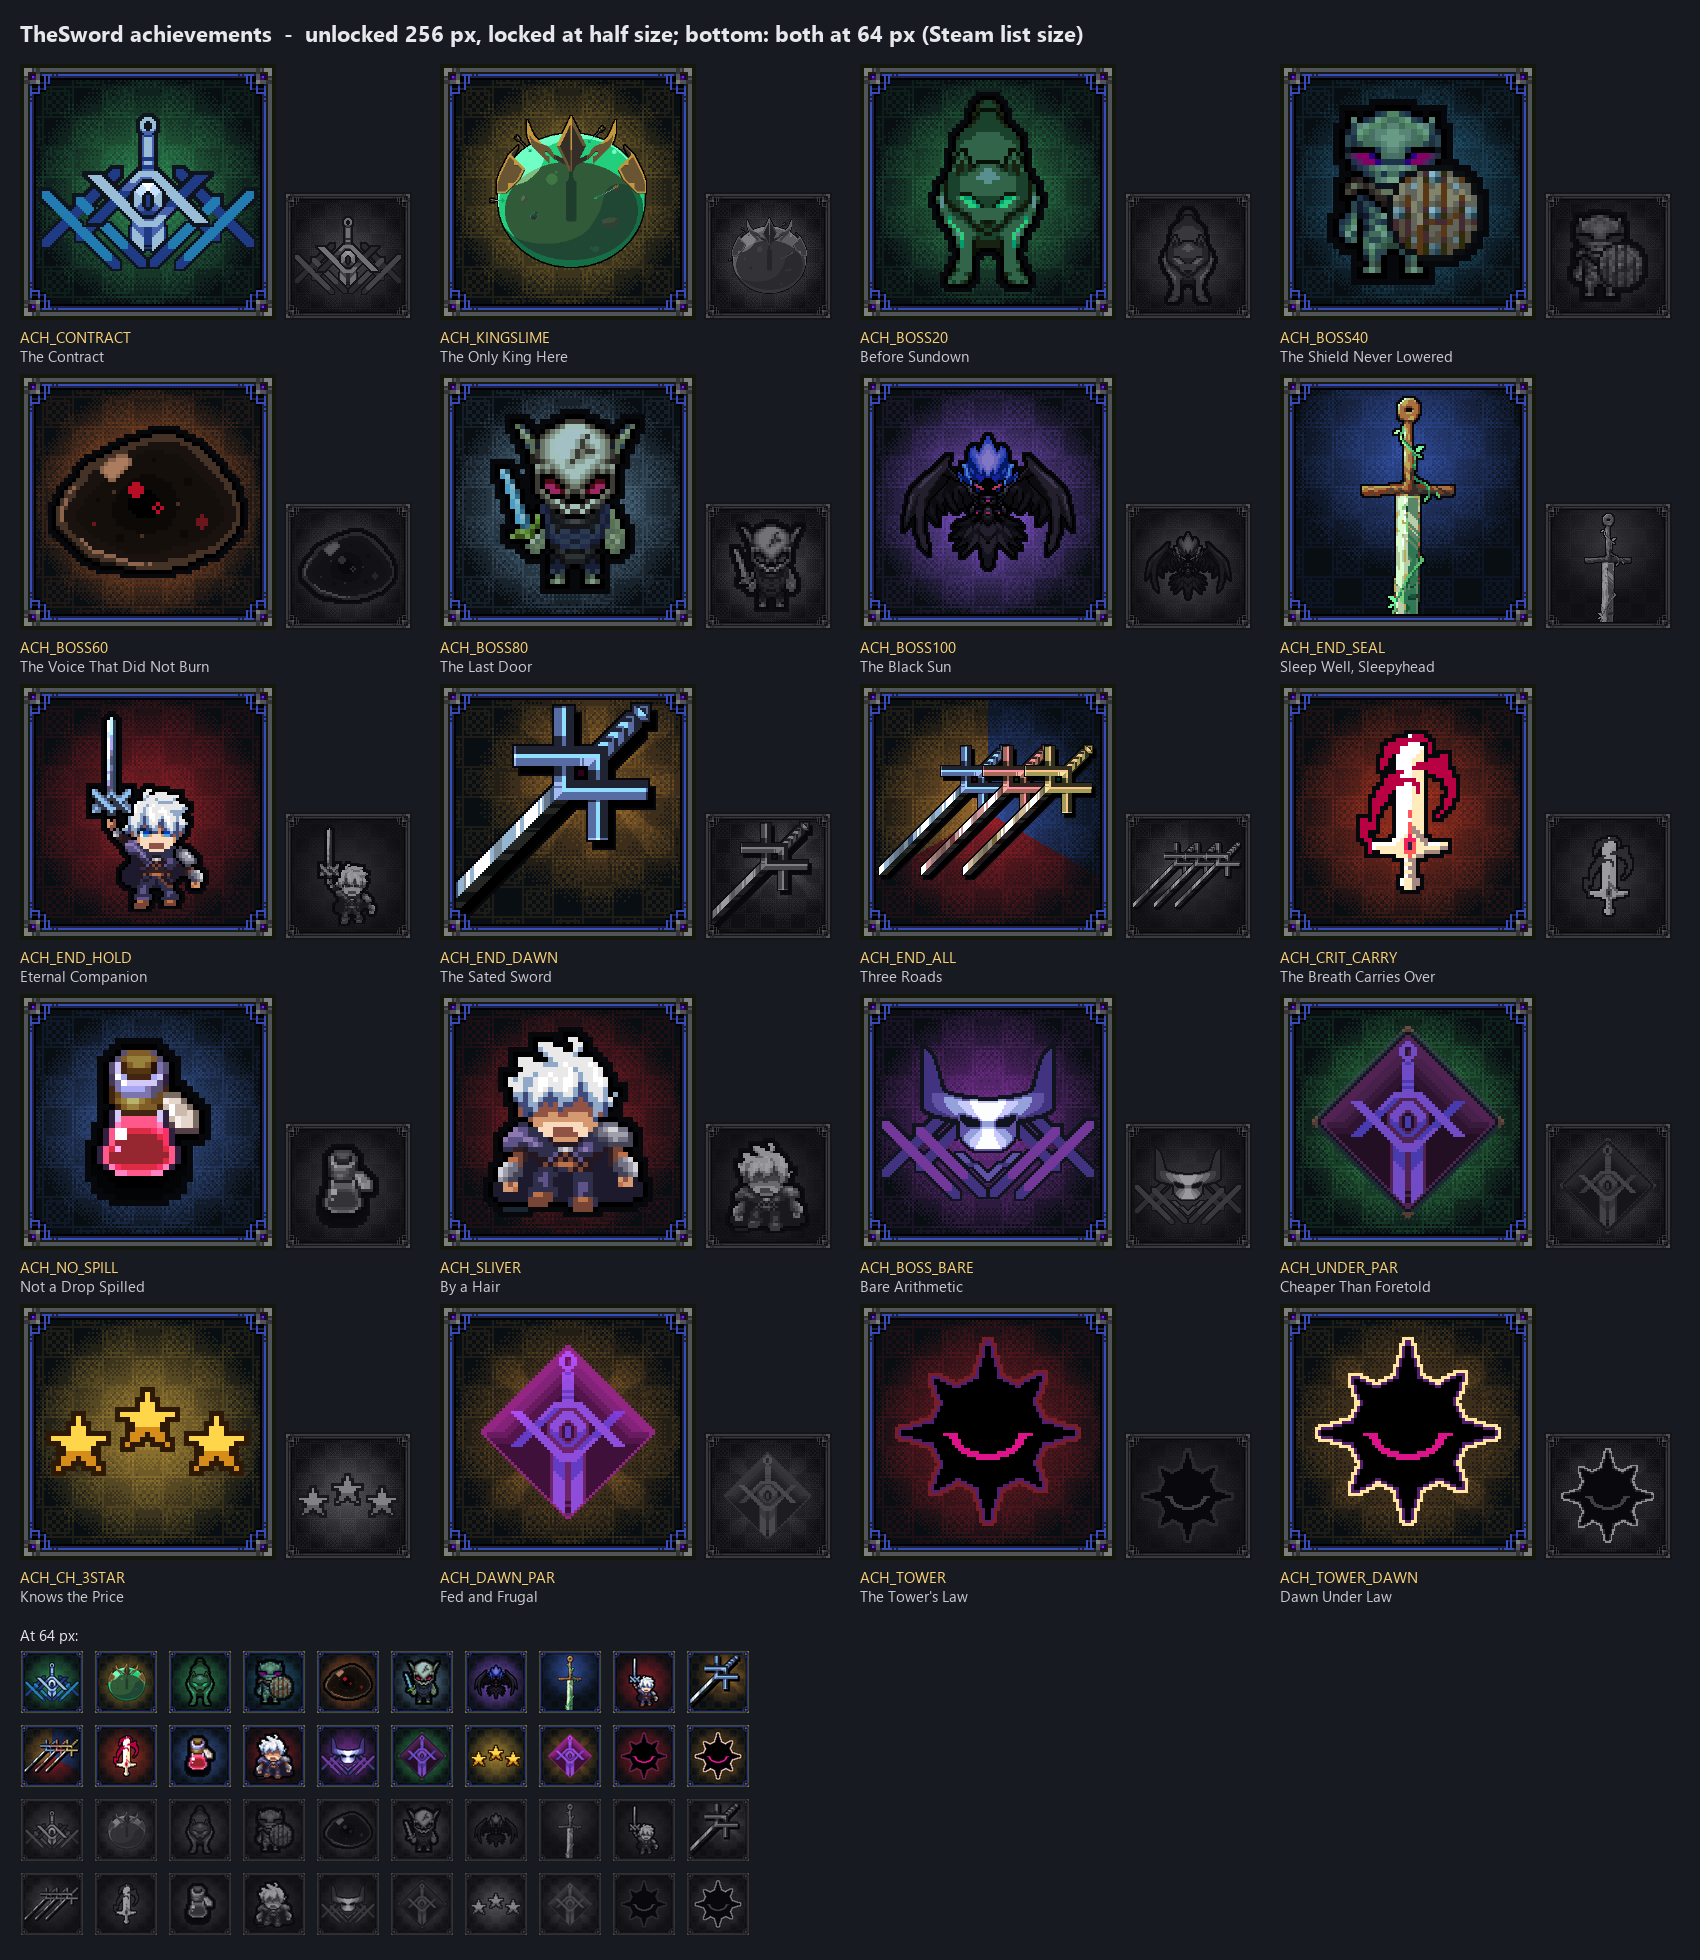
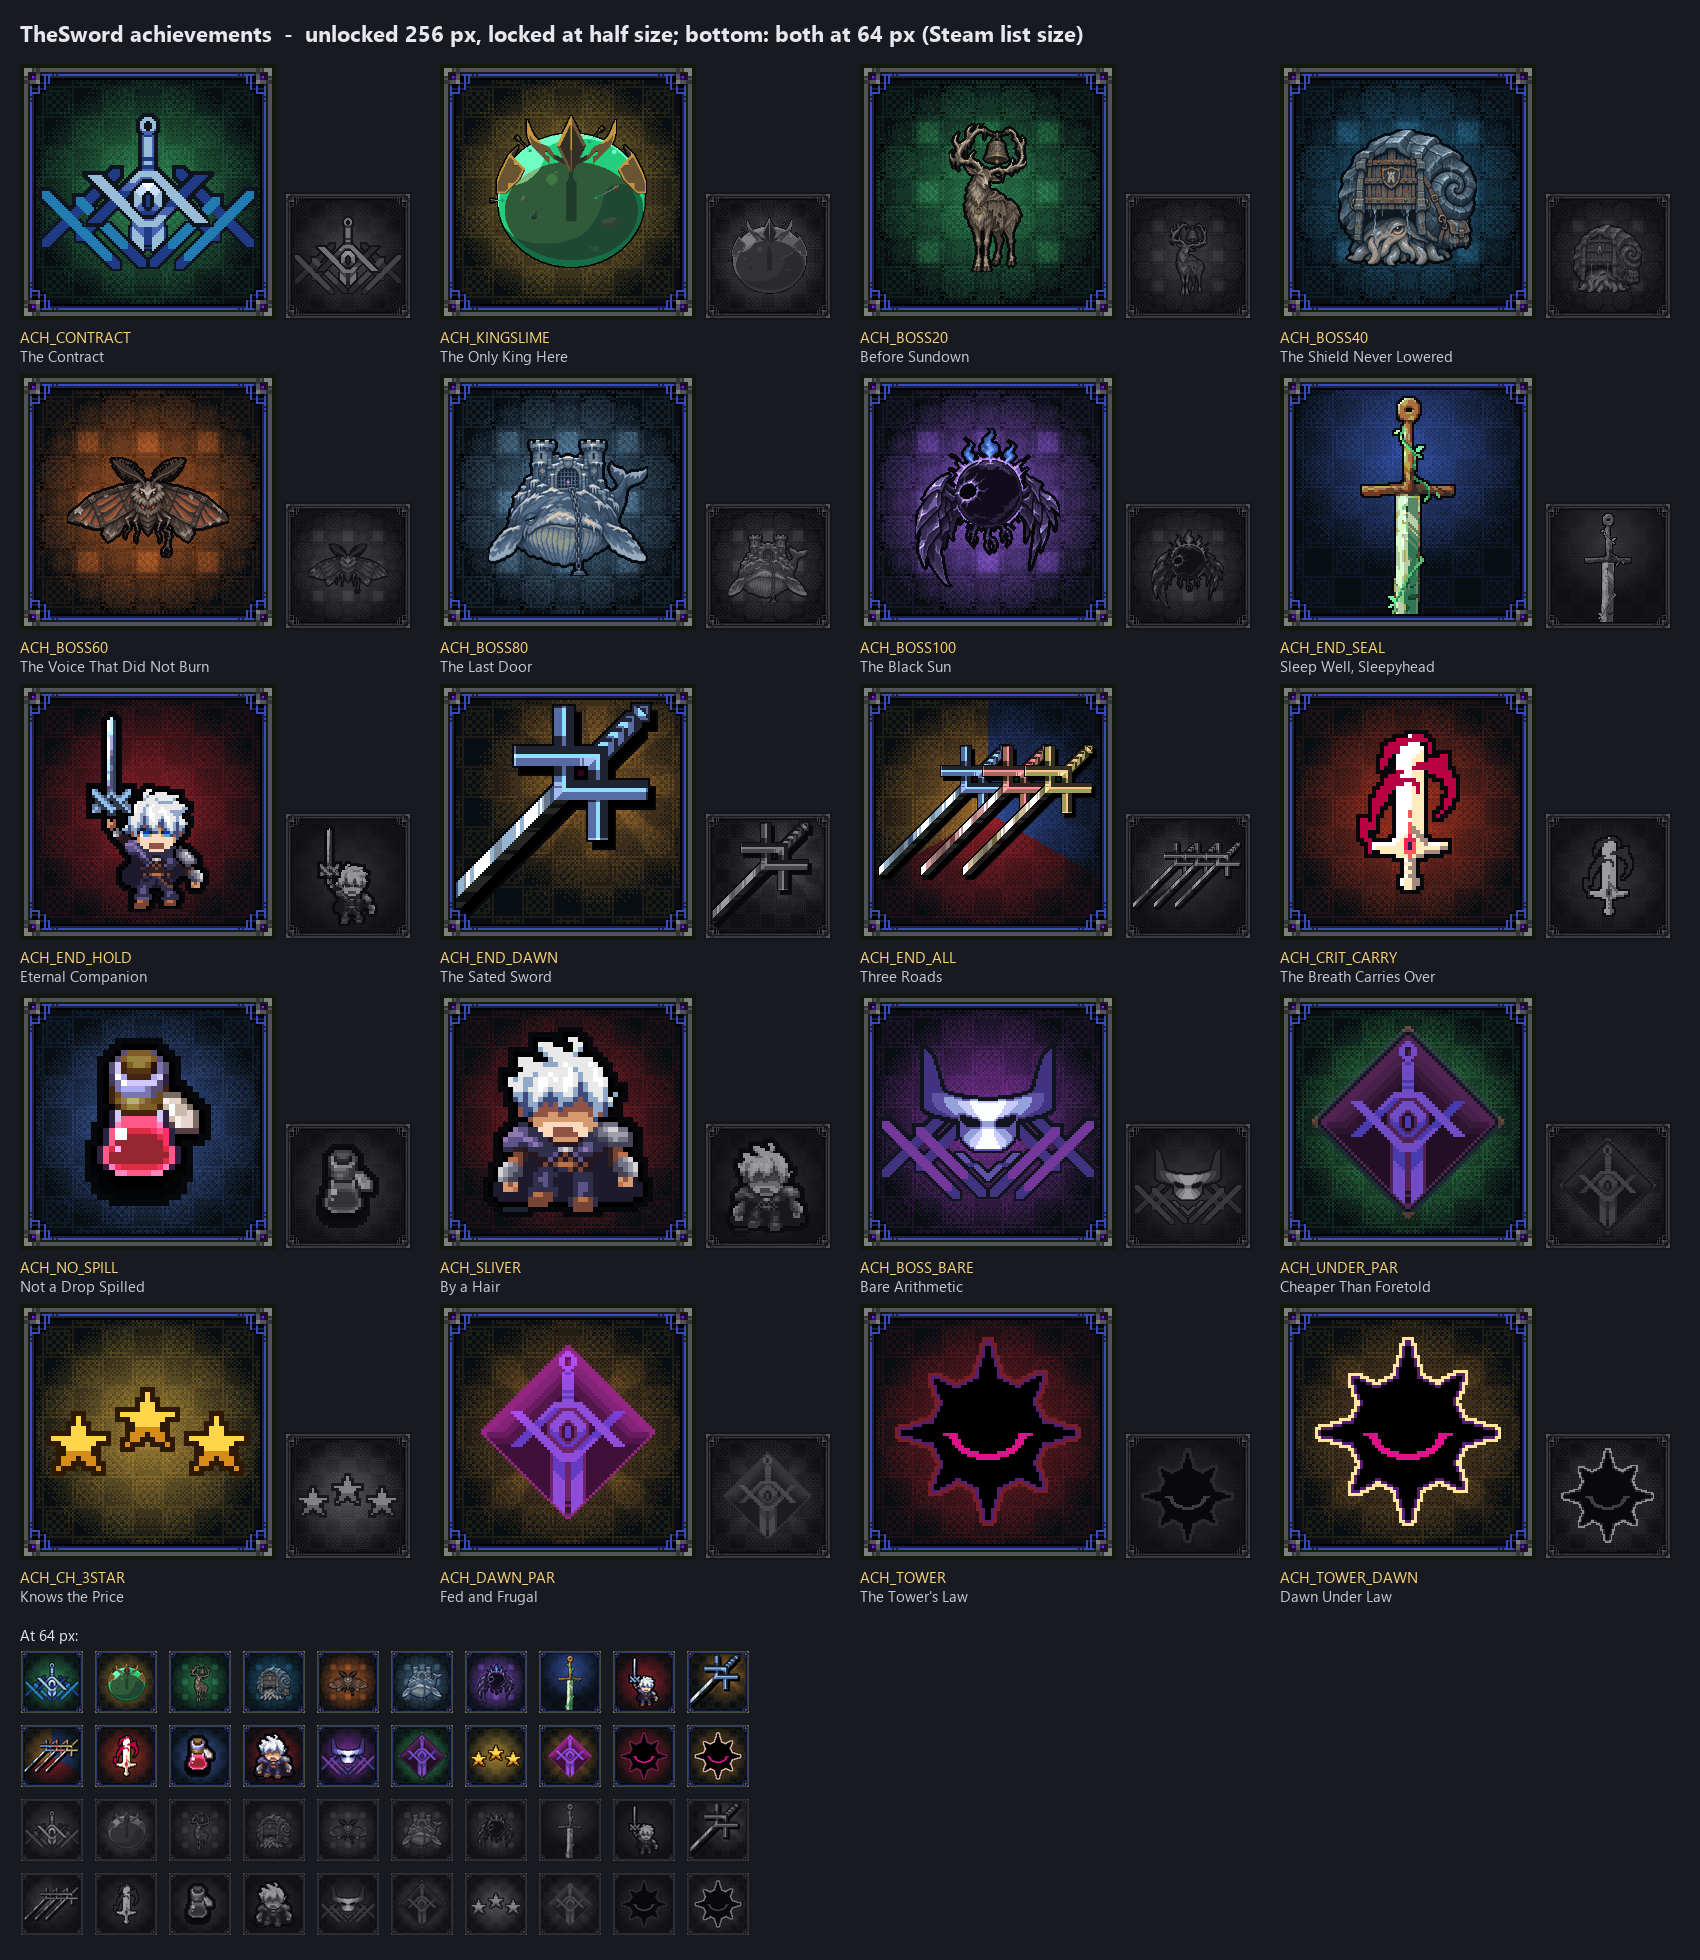
[ADD] 업적 아이콘 ACH_BOSS20~100 을 새 챕터 보스 그림으로(옛 틀·무늬·빛을 되살려 1배로 얹음, 잠긴 판·한눈에 보기 포함, 그림 README 의 AI 문장 사실대로), 맵 위 보스의 대기 동작(한 점 위 판과 0.6초마다 번갈아 — BossArt.Breathe, 트랜스폼 안 움직임), 일일 업데이트 11-20
Claude-Session: https://claude.ai/code/session_019jzxXKnfbABBeq4n8MpqwG

diff --git a/Assets/@Scripts/Utils/BossArt.cs b/Assets/@Scripts/Utils/BossArt.cs
@@ -27,7 +27,35 @@ public static class BossArt
         if (anim != null)
             anim.enabled = false;
         sr.sprite = s;
+        Breathe(id, sr, s);
         return true;
+    }
+
+    const float BreathSeconds = 0.6f;
+    static System.Collections.Generic.Dictionary<int, Sprite> s_raised;
+
+    [RuntimeInitializeOnLoadMethod(RuntimeInitializeLoadType.SubsystemRegistration)]
+    static void ResetStatics() => s_raised = null;
+
+    /// <summary>맵의 대기 동작 — 같은 그림을 한 점 위에 그린 판과 번갈아 건다(몹 시트의 들썩임 자리).
+    /// 트랜스폼을 옮기지 않아 콜라이더·SitOnFloor·예측 숫자 자리가 그대로고, 한 점씩이라 도트가 번지지 않는다.
+    /// 아래끝은 바닥 그대로(올라갔다 돌아온다).</summary>
+    static void Breathe(int id, SpriteRenderer sr, Sprite s)
+    {
+        s_raised ??= new System.Collections.Generic.Dictionary<int, Sprite>();
+        if (s_raised.TryGetValue(id, out Sprite up) == false || up == null)
+        {
+            Rect r = s.rect;
+            Vector2 pivot = new Vector2(s.pivot.x / r.width, (s.pivot.y - 1f) / r.height);   // 피벗을 한 점 내리면 그림이 한 점 뜬다
+            up = Sprite.Create(s.texture, r, pivot, s.pixelsPerUnit, 0, SpriteMeshType.FullRect);
+            up.name = s.name + "_up";
+            s_raised[id] = up;
+        }
+        DOTween.Kill(sr);
+        DOTween.Sequence()
+            .AppendInterval(BreathSeconds).AppendCallback(() => { if (sr != null && sr.sprite == s) sr.sprite = up; })
+            .AppendInterval(BreathSeconds).AppendCallback(() => { if (sr != null && sr.sprite == up) sr.sprite = s; })
+            .SetLoops(-1).SetId(sr).SetLink(sr.gameObject);
     }
 
     /// <summary>UI 판. 이미지의 애니메이터를 끄고 그림을 건다.</summary>

diff --git a/Steam/art/README.md b/Steam/art/README.md
@@ -1,7 +1,7 @@
 # Steam 그림 — 게임 그림으로 합성한 임시본
 
 Steam 스토어·라이브러리·업적에 올릴 그림 전부. **프로젝트에 이미 있는, 사람이 그린 그림만** 잘라 붙였다 —
-도트 스프라이트, 타이틀 도트, 인트로·로딩 삽화, 로고. 이미지 생성 모델은 한 번도 쓰지 않았다.
+도트 스프라이트, 타이틀 도트, 인트로·로딩 삽화, 로고. 이미지 생성 모델은 쓰지 않았다 — 예외는 보스 업적 다섯의 주제로, 게임에 들어간 챕터 보스 그림(오너의 AI 생성 시안)을 그대로 얹었다(아래 ¹).
 새로 그린 것은 그라데이션·둥근 사각형·디더링한 빛 같은 도형뿐이다.
 
 - **도트는 정수 배율 NEAREST 로만 키웠다.** 삽화와 로고는 **줄이기만** 했다(LANCZOS·BOX). 흐린 확대는 없다.
@@ -60,11 +60,11 @@ Steam 스토어·라이브러리·업적에 올릴 그림 전부. **프로젝트
 |---|---|---|---|---|
 | `ACH_CONTRACT` | 계약 팝업의 외눈 검 문장 | `UI/UI_Popup/PopupUI_MagicalSwordCheck.png` 위쪽 문장(팝업 판은 색으로 걷어냄) | ×2 | 숲 초록 |
 | `ACH_KINGSLIME` | 킹 슬라임 | `MonsterSprites/BossMonsterSprite/Idle/Boss_C0_I000.png` 첫 칸 | 2/3 축소(BOX) | 금색 |
-| `ACH_BOSS20` | 묘소의 늑대 | `MonsterSprites/Idle/Mob_004_Idle.png` (= `Mob_C0_I004`) + 챕터 0 색 | ×4 | 숲 초록 |
-| `ACH_BOSS40` | 수로의 방패병 | `MonsterSprites/Idle/Mob_007_Idle.png` (`Mob_C0_I007`) + 챕터 1 색 | ×6 | 물빛 |
-| `ACH_BOSS60` | 재의 파수꾼 | `MonsterSprites/Idle/Boss_C1_I000.png` (`Mob_C0_I008`) + 챕터 2 색 | ×4 | 잿불 |
-| `ACH_BOSS80` | 얼어붙은 기사 | `MonsterSprites/Idle/Mob_006_Idle.png` (`Mob_C0_I006`) + 챕터 3 색 | ×5 | 서리 |
-| `ACH_BOSS100` | 검은 태양 | `LegacySprites/Monster_Idle.png` (`Mob_C0_I009`) + 챕터 4 색 | ×2 | 보랏빛 |
+| `ACH_BOSS20` | 종뿔사슴 | `Boss/BossCh0.png` ¹ | ×1 | 숲 초록 |
+| `ACH_BOSS40` | 수문을 진 소라 | `Boss/BossCh1.png` ¹ | ×1 | 물빛 |
+| `ACH_BOSS60` | 잿불풀무나방 | `Boss/BossCh2.png` ¹ | ×1 | 잿불 |
+| `ACH_BOSS80` | 빙성고래 | `Boss/BossCh3.png` ¹ | ×1 | 서리 |
+| `ACH_BOSS100` | 검은 태양(왕관 일식체) | `Boss/BossCh4.png` ¹ | ×1 | 보랏빛 |
 | `ACH_END_SEAL` | 잠든 검이 꽂혀 있다 — 날이 틀 아래로 들어간다 | `TitleImages/MainTitle_Sword.png` | ×2 | 밤 파랑 |
 | `ACH_END_HOLD` | 검을 높이 든 주인공 | `Player/UnitHero_ContractSword_F.png` 첫 칸 | ×3 | 핏빛 |
 | `ACH_END_DAWN` | 에고소드 — 손잡이와 외눈은 안에, 날은 틀 밖으로 | `EquipIllust/Illust_Sword_01.png` | ×2 | 새벽 + 빛살 |
@@ -79,13 +79,17 @@ Steam 스토어·라이브러리·업적에 올릴 그림 전부. **프로젝트
 | `ACH_TOWER` | 보스 문의 검은 해 | `BossPortal/BossPortal_Idle.png` 첫 칸 | ×3 | 핏빛 |
 | `ACH_TOWER_DAWN` | 같은 검은 해, 금빛 테 | 〃 | ×3 | 새벽 + 빛살 |
 
+- ¹ **보스 다섯은 2026-11-20 에 게임의 챕터 보스 그림(오너가 AI 이미지 생성으로 뽑은 시안, 172칸)으로 바꿨다.** 예전 판(몹 시트 + 챕터 색)의 틀·무늬·빛은 그대로 두고 —
+  옛 주제의 외곽선 안을 지운 뒤, 무늬는 30칸 주기로 옮겨 오고 빛(정수 단계, 반경에 비례)은 옛 판에서 잰 기울기로 다시 디더했다 — 새 그림을 1배로 얹고 2 px 외곽선(6,8,12)을 둘렀다.
+  게임에서도 보스 그림은 몹 도트의 절반 크기라 1배가 같은 밀도다. 챕터 색은 입히지 않았다(그림이 이미 챕터 색). 잠긴 판은 옛 쌍에서 맞춘 식(밝기 ×0.58 + 7.6, 파랑 +5).
+  `achievements_contact.png` 도 그 자리만 같은 축소 필터로 갈아 끼웠다.
 - ★ 는 글꼴 Silver(Poppy Works, CC BY 4.0)의 글리프다 — `../THIRD_PARTY_NOTICES.txt` 1.1 에 이미 표기돼 있다.
 - 숨김 업적 셋(`ACH_END_DAWN`·`ACH_DAWN_PAR`·`ACH_TOWER_DAWN`)도 두 장씩 있다. 풀리기 전에는 Steam 이 자기 "숨김" 표시를 보인다.
-- 64 px 에서 가장 약한 것: `ACH_BOSS60`·`ACH_BOSS100`(거의 검은 그림이라 실루엣과 빛 테두리로 읽힌다), `ACH_END_ALL`(×1 도트라 가늘다).
+- 64 px 에서 가장 약한 것: `ACH_BOSS20`(사슴 다리가 가늘다)·`ACH_BOSS100`(검은 구가 빛 테두리로 읽힌다), `ACH_END_ALL`(×1 도트라 가늘다).
 
 ## AI 공개와의 관계
 
-그림 속 모든 픽셀은 사람이 그린 프로젝트 그림(과 도형)이지만, **무엇을 어디서 잘라 어떻게 놓을지는 Claude(AI)가 스크립트로 정했다.**
+그림 속 픽셀은 사람이 그린 프로젝트 그림(과 도형)이다 — **보스 업적 다섯(`ACH_BOSS20~100`)의 주제만 예외로 AI 이미지 생성 그림이다**(Steam 공개 문단의 보스 줄이 덮는다). 그리고 **무엇을 어디서 잘라 어떻게 놓을지는 Claude(AI)가 스크립트로 정했다.**
 Content Survey 의 AI 공개 칸에 적을지는 소유자가 정한다(`../README.md` §7). 의뢰 그림으로 바꾸면 이 문제는 사라진다.
 
 ## 다시 만들기

diff --git a/Documents/TheSword_일일업데이트.md b/Documents/TheSword_일일업데이트.md
@@ -5,6 +5,33 @@
 
 ---
 
+## 2026-11-20 — 보스 업적 아이콘 다섯을 새 보스 그림으로, 맵 위 보스의 대기 동작
+
+어제 오후 회차 뒤 오너 지시로 챕터 보스 다섯에 새 그림(오너 시안)을 넣었다(c91e9d13 — 맵·전투 카드·대화 초상·도감, 이름·대사 네 언어, Steam AI 공개 줄).
+오늘은 그 뒤에 남은 둘을 했다.
+
+### 1. 업적 아이콘 `ACH_BOSS20~100` 을 새 보스 그림으로
+업적 아이콘만 옛 몹 그림(늑대·고블린 방패병·재 슬라임·해골 기사·날개 달린 것)이라 게임과 어긋났다. 아이콘을 만든 스크립트는 저장소 밖이라,
+옛 아이콘에서 직접 되살렸다 — 틀·무늬·챕터 빛은 그대로 두고, 옛 주제의 외곽선 안을 지운 뒤 무늬는 30칸 주기로 옮겨 오고 빛은 옛 판에서 잰 기울기로 다시 디더했다.
+새 그림은 1배(게임에서도 몹 도트의 절반 크기)에 2px 어두운 외곽선, 잠긴 판은 옛 쌍에서 맞춘 회색 식(오차 1 이하). 열 장과 한눈에 보기(`achievements_contact.png`)를 바꿨다.
+`Steam/art/README.md` 의 "생성 모델은 한 번도 쓰지 않았다" 를 사실대로 고쳤다(보스 다섯만 예외 — Steam AI 공개의 보스 줄이 덮는다).
+64px 목록에서는 사슴 다리가 가늘어 가장 약하다.
+
+### 2. 맵 위 보스가 굳어 보이지 않게 — 한 점 들썩임
+보스 그림은 한 장이라 맵에서 다른 몹(대기 애니메이션)과 달리 박제처럼 서 있었다. 같은 그림을 한 점 위에 그린 판(피벗만 내린 `Sprite.Create`)을 만들어
+0.6초마다 번갈아 건다(`BossArt.Breathe`). 트랜스폼은 그대로라 콜라이더·바닥 앉히기·예측 숫자 자리가 안 움직이고, 한 점씩이라 도트가 번지지 않는다.
+에디터에서 40층 보스로 확인: 그림이 `BossCh1`↔`BossCh1_up` 으로 바뀌고 아래끝이 0 ↔ 0.02(그림 한 점), 애니메이터 꺼짐, 그 보스와 싸워 끝까지 — 예외 0.
+
+### 검증
+- 규칙 검사 13개 전·후 통과, 컴파일 경고 0, 에디터 콘솔 오류 0.
+- 오너 세이브·설정 백업 → 확인 뒤 되돌림, 해시 MATCH. 에디터는 내가 띄우고 닫았다.
+
+### 다음
+- 100층 검은 태양이 어두운 바닥에 묻히는지(밝기) — 오너 결정.
+- 출시 빌드 다시 굽기·스토어 화면 재촬영(P1) — 보스 그림까지 쌓였다.
+
+---
+
 ## 2026-11-19 (오후) — 맵 툴팁이 HUD 열쇠 칸에 덮이던 것, 걸으며 한마디 84층·96층, 안 본 층 일곱 곳(21·41·49·58·75·86·98층)
 
 ### 1. 고침: 맵 툴팁이 HUD 열쇠 칸에 덮였다

diff --git a/CLAUDE.md b/CLAUDE.md
@@ -132,10 +132,10 @@ DOTween Pro 도 2026-11-05 에 뺐다 — Pro 컴포넌트(`DOTweenAnimation`·`
 
 **챕터 보스 다섯(id 900~904)은 제 그림이 있다**(2026-11-19, `Sprites/Boss/BossCh{챕터}.png` — 종뿔사슴·수문을 진 소라·잿불풀무나방·빙성고래·왕관 일식체, 172칸 한 장).
 `BossArt.Apply` 가 맵(`MapBuilder.SetupLook`)·전투 카드(`UI_MonsterCard`)·대화 초상(`SetRightBoss`)·도감에서 애니메이터를 끄고 이 그림을 건다 — 데이터의
-`IdleAnimStr` 는 그대로 둔다(`FastChecks` 가 두 컨트롤러의 상태인지 본다). 공격 동작은 `BossArt.Lunge`(카드를 내민다). 그림은 이미 챕터 색이라 `MonsterTint` 를 안 곱하고,
+`IdleAnimStr` 는 그대로 둔다(`FastChecks` 가 두 컨트롤러의 상태인지 본다). 공격 동작은 `BossArt.Lunge`(카드를 내민다). 맵의 대기 동작은 한 점 위에 그린 판(피벗을 한 점 내린 `Sprite.Create`)과 0.6초마다 번갈아 건다(`BossArt.Breathe`) — 트랜스폼을 안 옮겨 콜라이더·예측 자리가 그대로다. 그림은 이미 챕터 색이라 `MonsterTint` 를 안 곱하고,
 몸집은 1 이다(172칸 = 옛 86칸 x2). `MonsterController.Init` 이 애니메이터를 다시 틀지 않게 막는다 — 틀면 몹 시트가 덮는다. 들이기 설정은 `BossArtImport`(점 필터·발밑 피벗·100 PPU),
 어드레서블은 `AddressableSetup.Required`. 그림이 없으면(null) 예전 몹 시트로 돌아간다. **오너가 AI 이미지 생성으로 뽑은 시안이다** — Steam AI 공개 셋째 줄(`Steam/store/ko.md`).
-업적 아이콘 `ACH_BOSS20~80` 은 아직 옛 몹 그림이다(만든 도구가 저장소에 없다).
+업적 아이콘 `ACH_BOSS20~100` 도 이 그림이다(11-20, 1배 — 만든 법은 `Steam/art/README.md` 업적 아이콘 절).
 
 같은 그림을 색으로 갈라 쓴다(`MonsterTint`): 색조=챕터, 진하기=층 안 서열,
 그리고 **다섯 층마다 색 갈래**가 바뀐다(한 챕터 20층이 같은 색이면 같은 놈으로 보인다).
